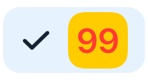
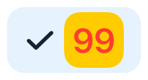
[Refactoring] Update snapshots

diff --git a/Package.swift b/Package.swift
@@ -21,9 +21,9 @@ let package = Package(
     ],
     dependencies: [
        .package(
-           // url: "https://github.com/leboncoin/spark-ios-common.git",
-           path: "../spark-ios-common"
-           // /*version*/ "0.1.0"..."999.999.999"
+           url: "https://github.com/leboncoin/spark-ios-common.git",
+           // path: "../spark-ios-common"
+           /*version*/ "0.1.0"..."999.999.999"
        ),
        .package(
            url: "https://github.com/leboncoin/spark-ios-theming.git",

diff --git a/Sources/Core/View/SparkChip.swift b/Sources/Core/View/SparkChip.swift
@@ -10,8 +10,6 @@ import SwiftUI
 @_spi(SI_SPI) import SparkCommon
 import SparkTheming
 
-// TODO: The badge must be on the left of the right image
-
 /// A Spark Chip help users quickly recognize an important
 /// information that has been entered by them, trigger actions,
 /// make selections, or filter content.

diff --git a/Sources/Core/Environment/ChipAlignmentEnvironmentValues.swift b/Sources/Core/Environment/ChipAlignmentEnvironmentValues.swift
@@ -1,6 +1,6 @@
 //
 //  ChipAlignmentEnvironmentValues.swift
-//  SparkComponentSelectionControls
+//  SparkComponentChip
 //
 //  Created by robin.lemaire on 23/09/2025.
 //  Copyright © 2025 Leboncoin. All rights reserved.

diff --git a/Sources/Core/Environment/ChipVariantEnvironmentValues.swift b/Sources/Core/Environment/ChipVariantEnvironmentValues.swift
@@ -1,6 +1,6 @@
 //
 //  ChipVariantEnvironmentValues.swift
-//  SparkComponentSelectionControls
+//  SparkComponentChip
 //
 //  Created by robin.lemaire on 23/09/2025.
 //  Copyright © 2025 Leboncoin. All rights reserved.

diff --git a/Sources/Core/Environment/ChipIntentEnvironmentValues.swift b/Sources/Core/Environment/ChipIntentEnvironmentValues.swift
@@ -1,6 +1,6 @@
 //
 //  ChipIntentEnvironmentValues.swift
-//  SparkComponentSelectionControls
+//  SparkComponentChip
 //
 //  Created by robin.lemaire on 23/09/2025.
 //  Copyright © 2025 Leboncoin. All rights reserved.
